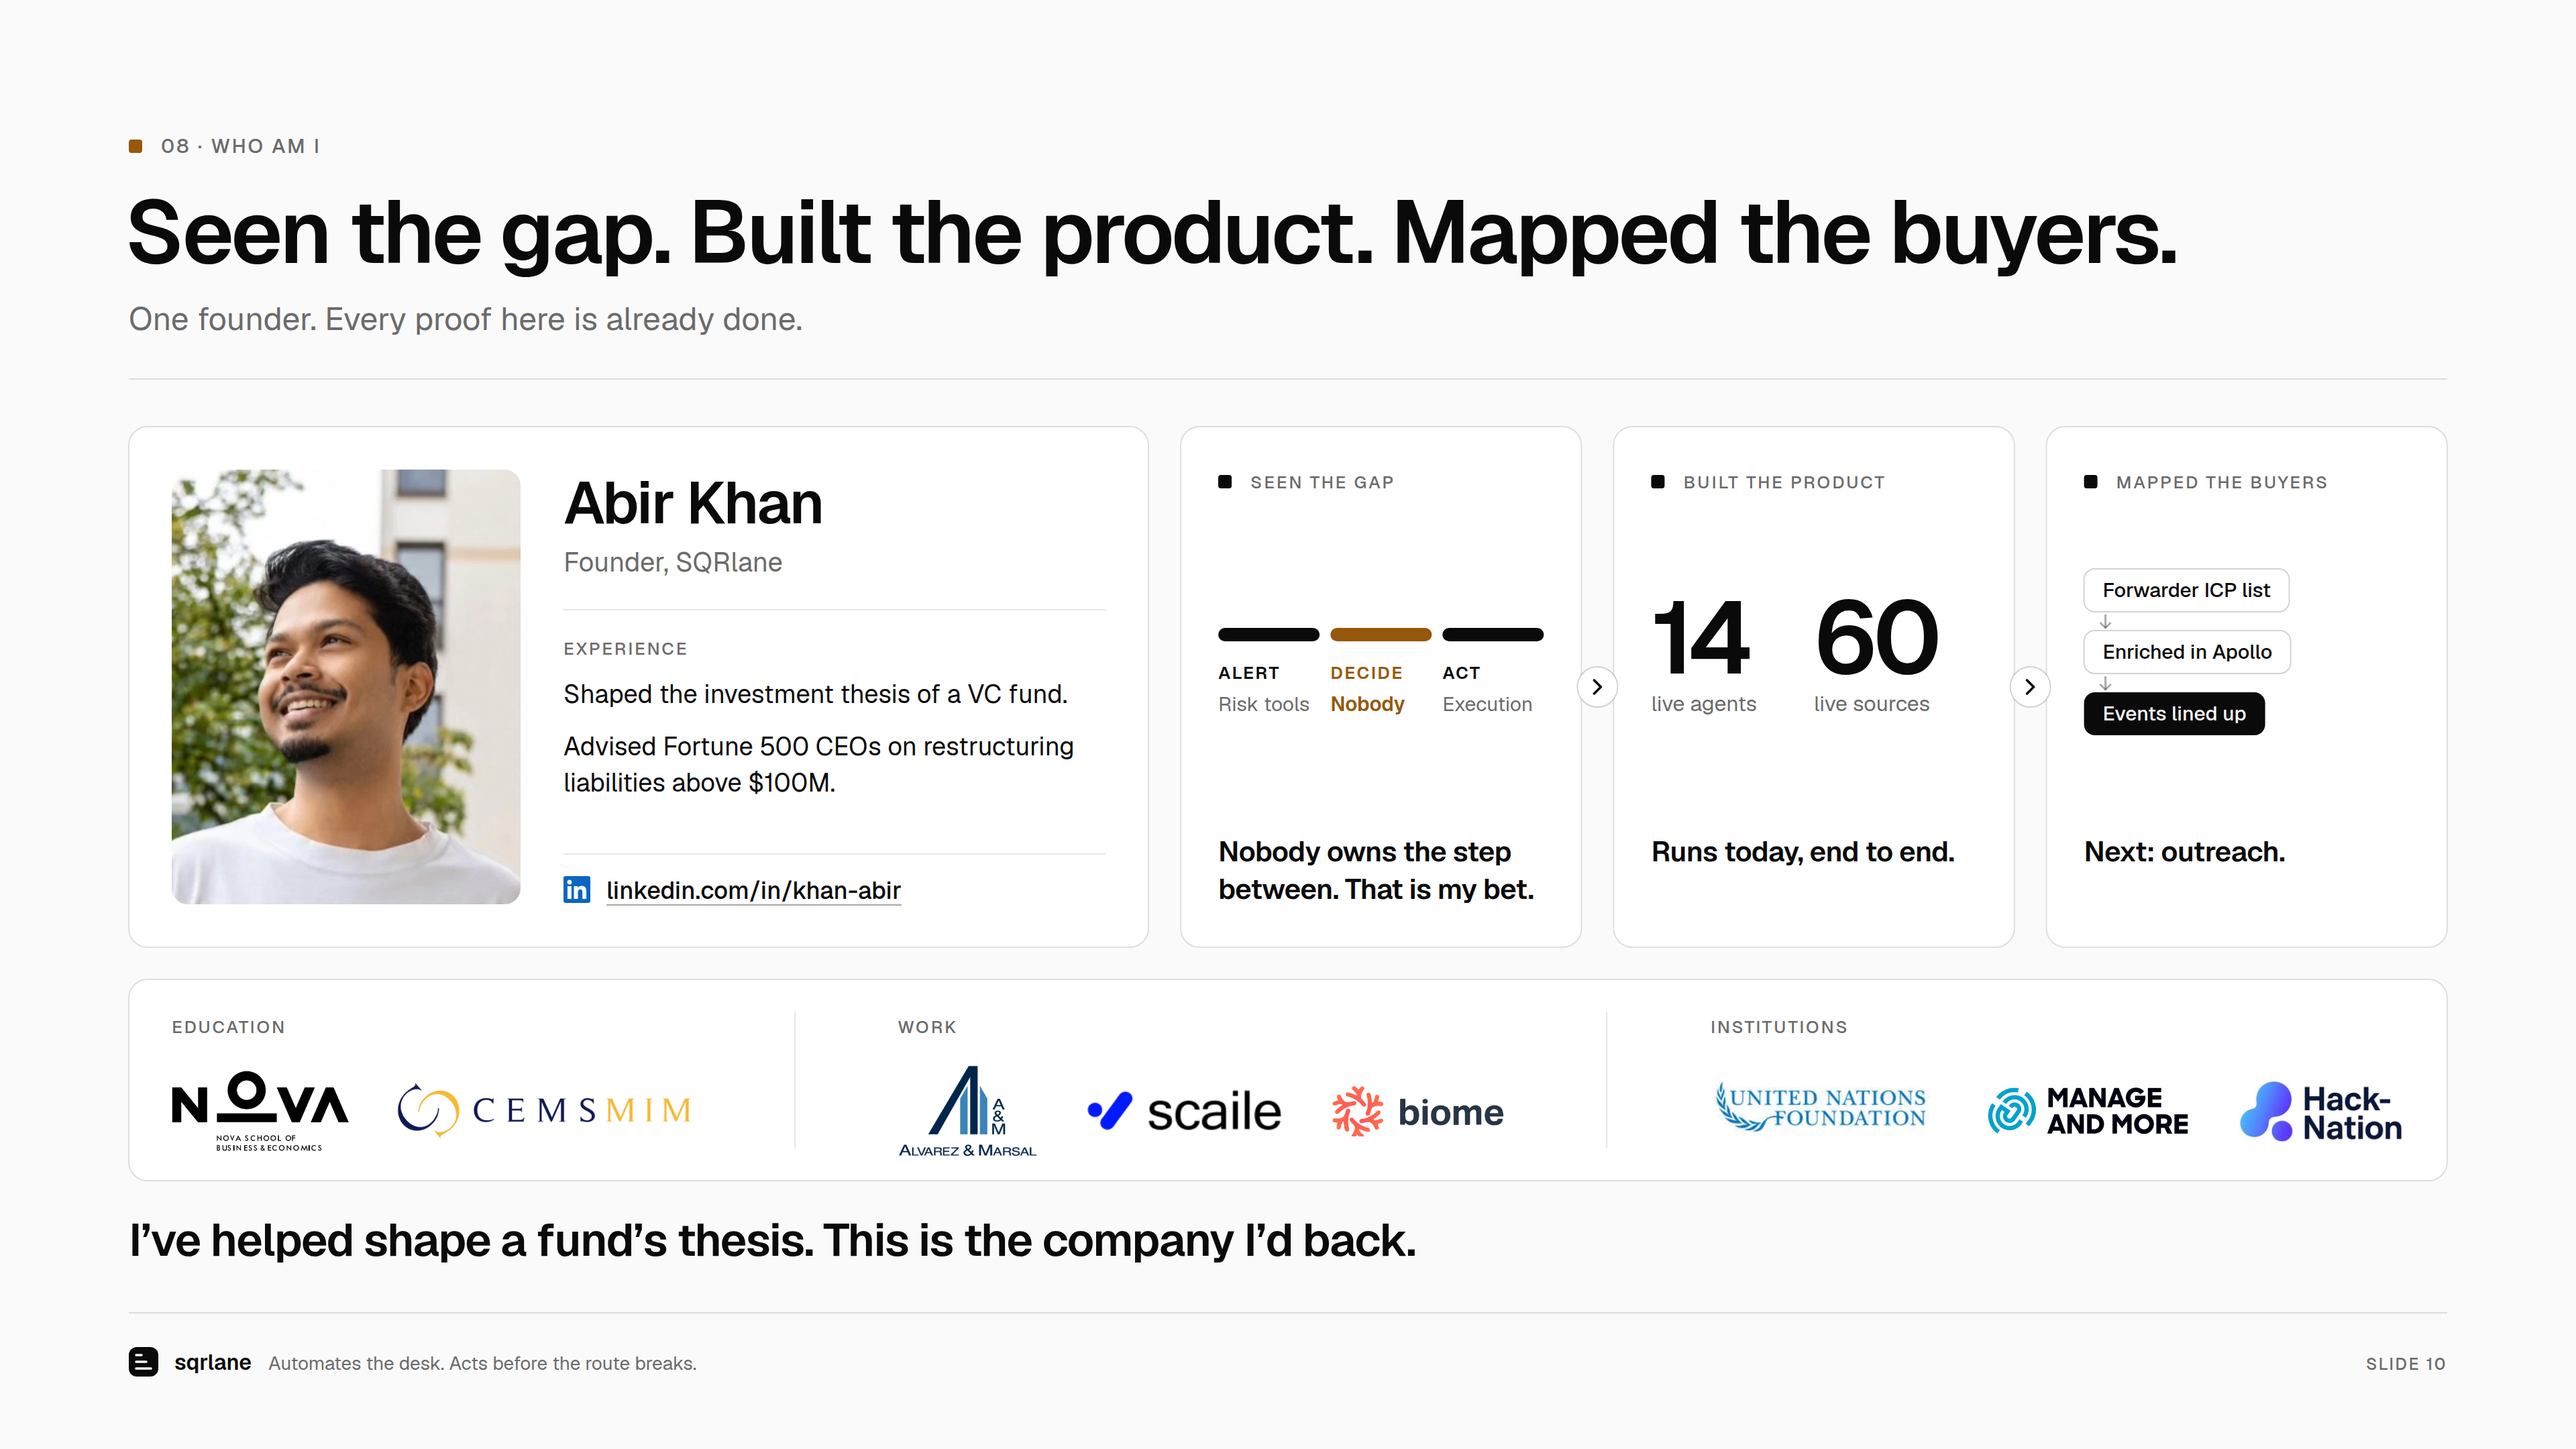
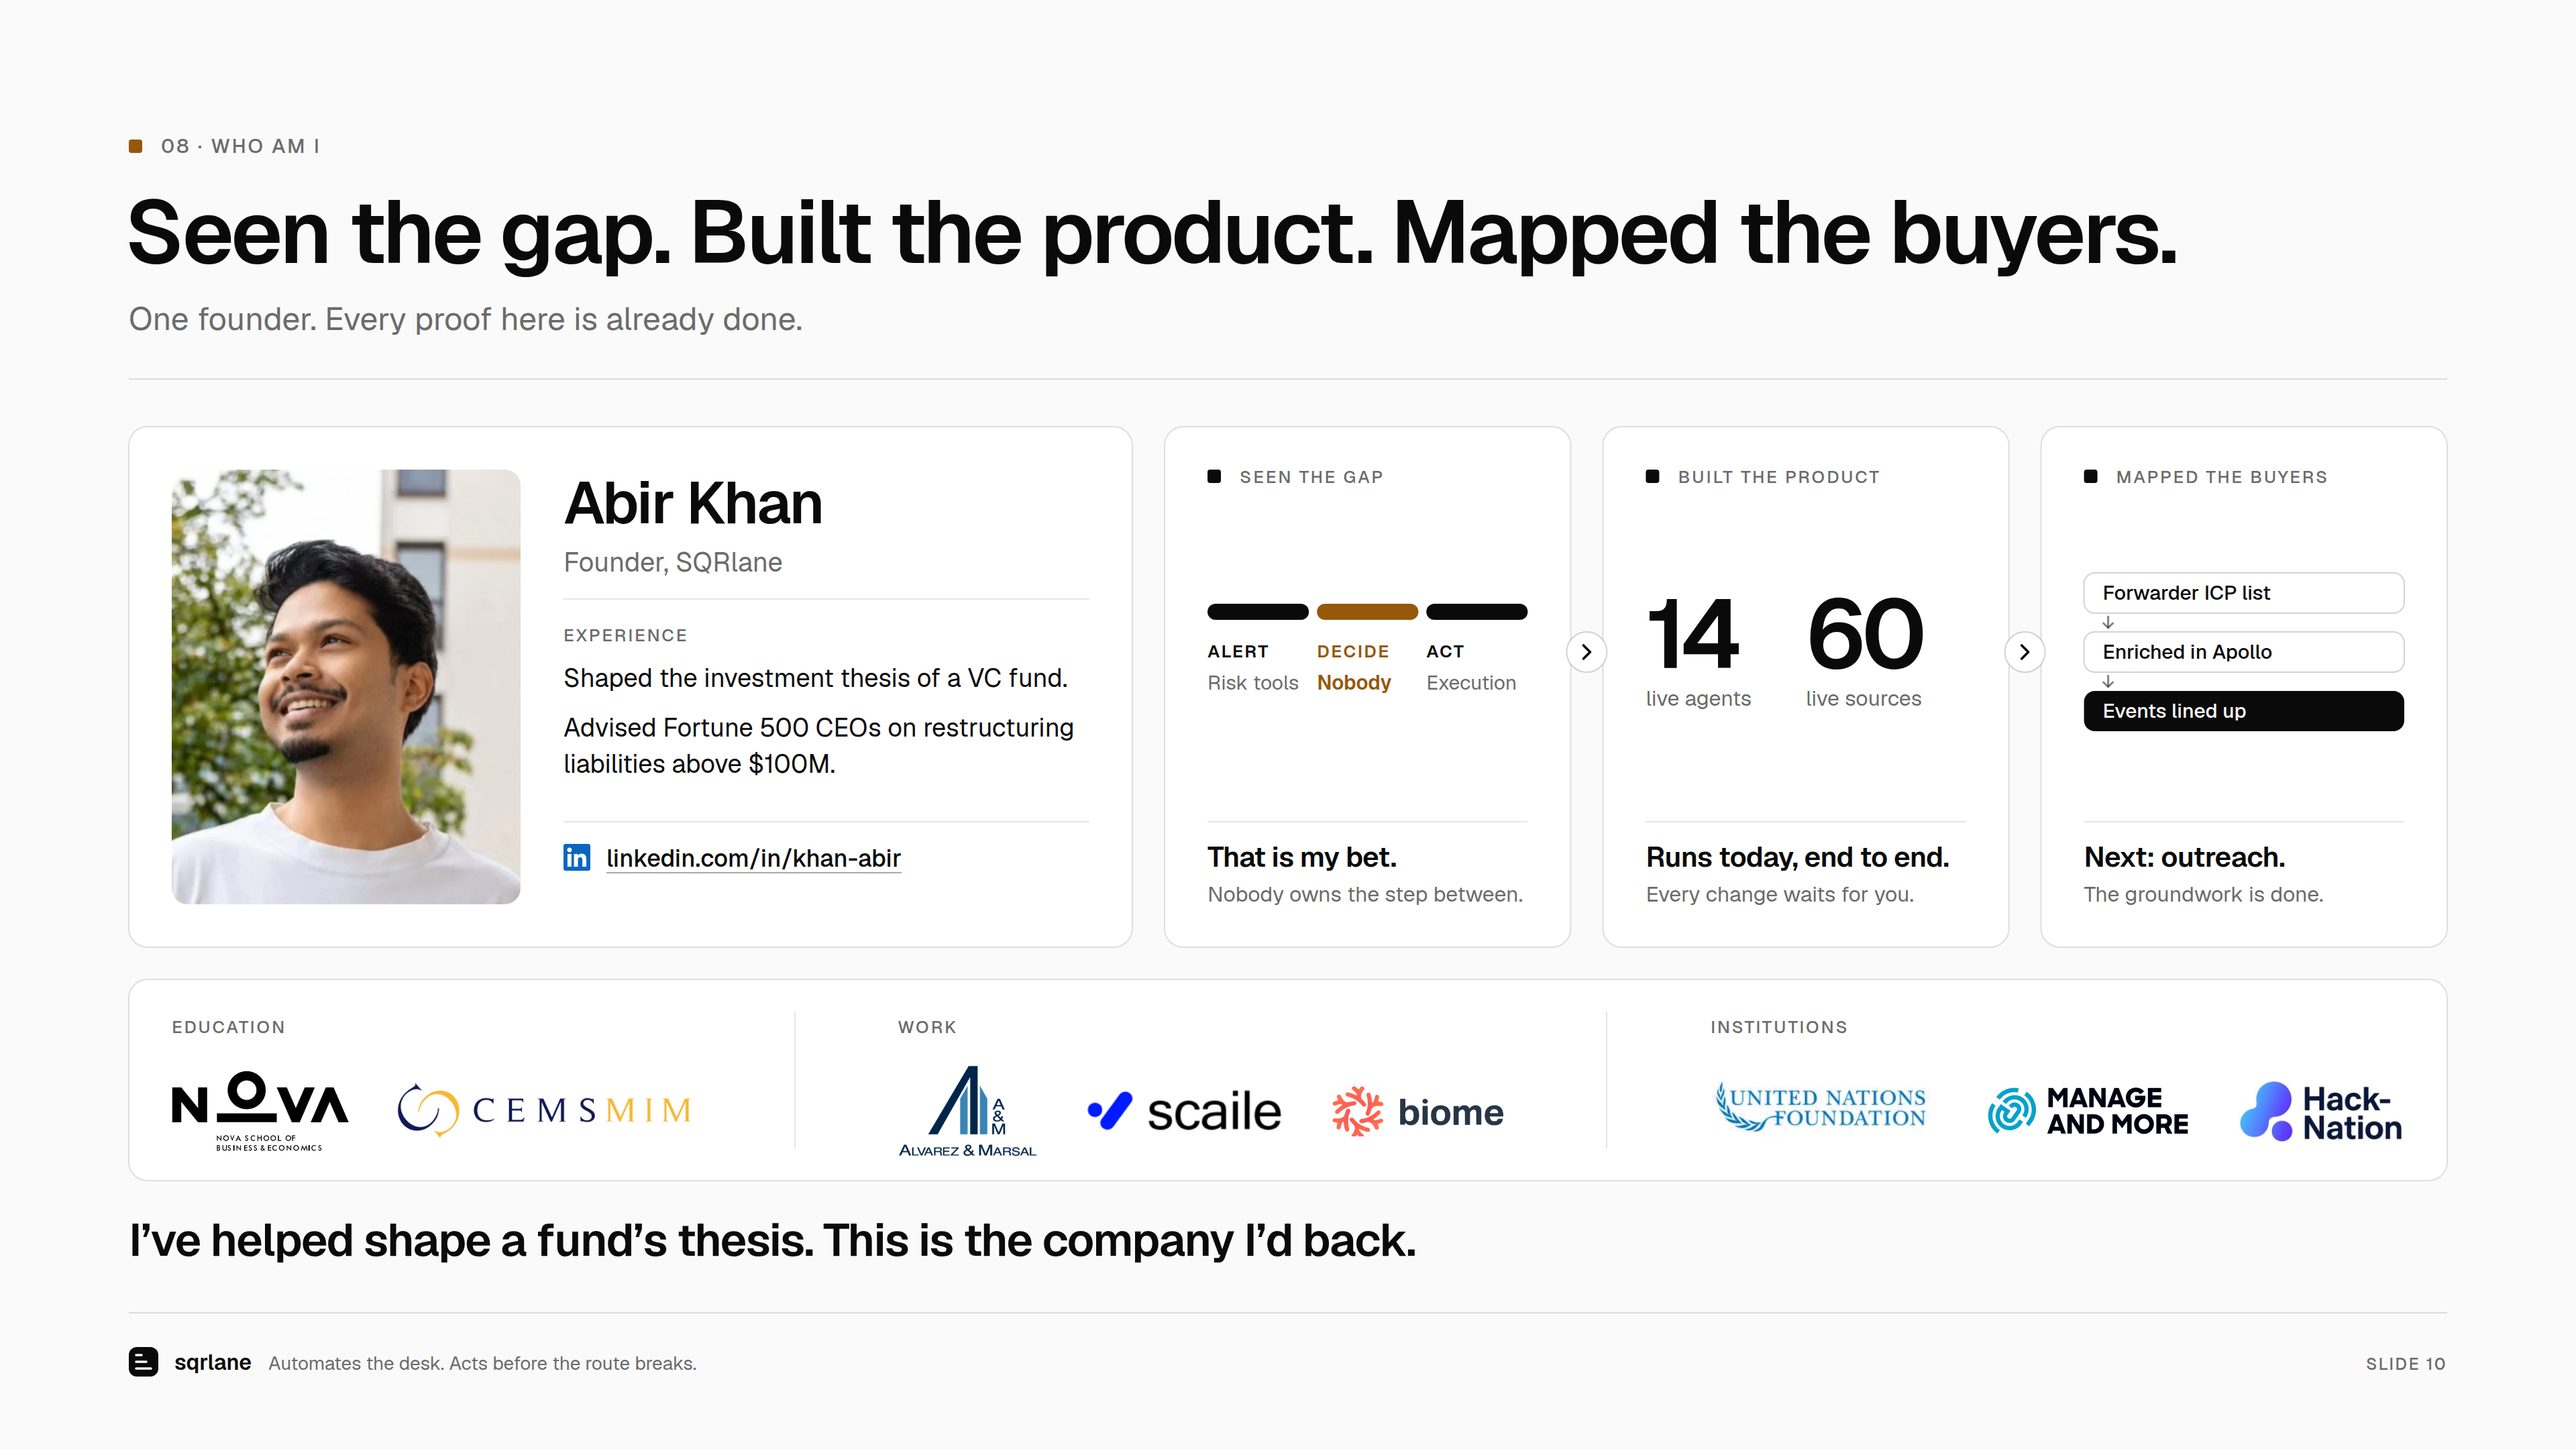
Deck v2 slide 10: the top row on one grid
On the owner's note that the alignments were not uniform: the four cards share one
padding, one label line at the photo's top, one centre line for the tiles' pictures and
the joins between them, one hairline, and two closing baselines that the LinkedIn link and
the photo's foot sit on. The tiles close on a bold line and a grey line each, so no tile
runs a line longer than the others, and the ICP chain's steps are one width.

Claude-Session: https://claude.ai/code/session_014sPbUtJpNQxuG4uUbzbaeD

diff --git a/deck/v2/build_10.py b/deck/v2/build_10.py
@@ -72,7 +72,7 @@ BAND_H = 150
 ROW_B = BOTTOM - BAND_H - 24          # foot of the top row
 
 # ---------------------------------------------------------------- the founder
-FX, FW, PAD = M, 760, 32
+FX, FW, PAD = M, 748, 32
 s.g("founder")
 s.card(FX, TOP, FW, ROW_B - TOP)
 PW_, PH_ = 260, 324                   # 4:5 portrait, the owner's photo
@@ -86,22 +86,35 @@ DX = px + PW_ + 32                    # the details column
 DW = FX + FW - PAD - DX
 s.T(DX, py + 40, "Abir Khan", 44, 600, ls=-1.2)
 s.T(DX, py + 76, "Founder, SQRlane", 20, 400, MUT)
-s.rule(py + 104, 0.1, DX, DW)
-s.T(DX, py + 138, "EXPERIENCE", 13, 500, MUT, ls=2.4, mono=True)
+s.rule(py + 96, 0.1, DX, DW)
+s.T(DX, py + 128, "EXPERIENCE", 13, 500, MUT, ls=2.4, mono=True)
 EXPERIENCE = ["Shaped the investment thesis of a VC fund.",
               "Advised Fortune 500 CEOs on restructuring liabilities above $100M."]
-y = py + 174
+y = py + 162
 for item in EXPERIENCE:
     for ln in wrap(item, 19, 400, DW):
         s.T(DX, y, ln, 19, 400)
         y += 27
-    y += 12
-EXP_END = y - 12 - 27 + 8
+    y += 10
+EXP_END = y - 10 - 27 + 8
 
-# the link sits on the column's foot, under a hairline, like a contact line
-LBASE = ROW_B - PAD - 4
-assert EXP_END + 34 <= LBASE - 30, f"experience runs into the link ({EXP_END})"
-s.rule(LBASE - 34, 0.1, DX, DW)
+# ---------------------------------------------------------------- one grid for the whole top row
+# Every card in the row shares these lines, so nothing in it floats:
+#   LABEL_BASE  tile labels; their square's top is the photo's top
+#   HC          the centre line of every tile's picture, and of the joins between tiles
+#   FOOT_RULE   one hairline at the same height in all four cards
+#   BOLD_BASE   the tiles' bold line, and the LinkedIn link
+#   LAST_BASE   the tiles' grey line, level with the photo's foot
+LABEL_BASE = TOP + PAD + 10
+LAST_BASE = py + PH_ - 2
+BOLD_BASE = LAST_BASE - 26
+FOOT_RULE = BOLD_BASE - 34
+HC = (LABEL_BASE + FOOT_RULE) // 2
+
+# the founder's link sits under the shared hairline, on the bold line's baseline
+assert EXP_END + 20 <= FOOT_RULE, f"experience runs into the hairline ({EXP_END})"
+s.rule(FOOT_RULE, 0.1, DX, DW)
+LBASE = BOLD_BASE
 s.g("linkedin")
 s.raw(f'<a href="{LINKEDIN}" target="_blank">')
 # LinkedIn's official mark, byte-for-byte from @iconify-json/logos (linkedin-icon, CC0)
@@ -120,76 +133,71 @@ TX0 = FX + FW + 24
 TGAP = 24
 TW = (W - M - TX0 - 2 * TGAP) / 3
 TH = ROW_B - TOP
-TP = 28
-HERO_Y = TOP + 110                    # top of each tile's picture
-CAP_Y = ROW_B - TP - 36               # first baseline of each tile's punchline
+TP = PAD                              # the same padding as the founder card
+CW = TW - 2 * TP                      # content width inside a tile
 
-def tile_head(x, text):
-    s.card(round(x, 1), TOP, round(TW, 1), TH)
-    fit(text, 13, 500, TW - 2 * TP - 24, ls=1.44)
-    s.label(round(x + TP, 1), TOP + TP + 18, text, INK, 13)
-
-def punch(x, text):
-    lines = wrap(text, 21, 600, TW - 2 * TP)
-    assert len(lines) <= 2, f"punchline longer than two lines: {text!r}"
-    for i, ln in enumerate(lines):
-        s.T(round(x + TP, 1), CAP_Y + i * 28, ln, 21, 600, ls=-0.3)
+def tile(x, label, bold, grey):
+    """Card, label, hairline and the two closing lines, all on the shared grid."""
+    x = round(x, 1)
+    s.card(x, TOP, round(TW, 1), TH)
+    fit(label, 13, 500, CW - 24, ls=1.44)
+    s.label(x + TP, LABEL_BASE, label, INK, 13)
+    s.rule(FOOT_RULE, 0.1, x + TP, round(CW, 1))
+    fit(bold, 21, 600, CW, ls=-0.3)
+    s.T(x + TP, BOLD_BASE, bold, 21, 600, ls=-0.3)
+    fit(grey, 16, 400, CW)
+    s.T(x + TP, LAST_BASE, grey, 16, 400, MUT)
+    return x + TP
 
 # 1 - the gap: who owns each step between an alert and an action
-x = TX0
 s.g("proof-gap")
-tile_head(x, "SEEN THE GAP")
+cx = tile(TX0, "SEEN THE GAP", "That is my bet.", "Nobody owns the step between.")
 STEPS = [("ALERT", "Risk tools", INK), ("DECIDE", "Nobody", AMB), ("ACT", "Execution", INK)]
-sw = (TW - 2 * TP - 2 * 8) / 3
+SG = 6
+sw = (CW - 2 * SG) / 3
 for i, (step, owner, col) in enumerate(STEPS):
-    sx_ = round(x + TP + i * (sw + 8), 1)
-    s.R(sx_, HERO_Y + 40, round(sw, 1), 10, col, 5)
-    fit(step, 13, 600, sw, ls=2 * 0.6)
-    fit(owner, 15, 600 if col == AMB else 400, sw - 4)
-    s.T(sx_, HERO_Y + 78, step, 13, 600, col, ls=2, mono=True)
-    s.T(sx_, HERO_Y + 102, owner, 15, 600 if col == AMB else 400, col if col == AMB else MUT)
-punch(x, "Nobody owns the step between. That is my bet.")
+    sx_ = round(cx + i * (sw + SG), 1)
+    s.R(sx_, HC - 36, round(sw, 1), 12, col, 6)
+    fit(step, 13, 600, sw, ls=1.2)
+    fit(owner, 15, 600 if col == AMB else 400, sw - 2)
+    s.T(sx_, HC + 4, step, 13, 600, col, ls=2, mono=True)
+    s.T(sx_, HC + 28, owner, 15, 600 if col == AMB else 400, col if col == AMB else MUT)
 s.end()
 
 # 2 - the product: two counts from the build, not from a market
-x = TX0 + TW + TGAP
 s.g("proof-built")
-tile_head(x, "BUILT THE PRODUCT")
+cx = tile(TX0 + TW + TGAP, "BUILT THE PRODUCT", "Runs today, end to end.", "Every change waits for you.")
 for i, (n, what) in enumerate([("14", "live agents"), ("60", "live sources")]):
-    nx = round(x + TP + i * (TW - 2 * TP) / 2, 1)
-    s.T(nx, HERO_Y + 74, n, 76, 600, ls=-3)
-    s.T(nx, HERO_Y + 102, what, 16, 400, MUT)
-punch(x, "Runs today, end to end.")
+    nx = round(cx + i * CW / 2, 1)
+    s.T(nx, HC + 12, n, 72, 600, ls=-3)
+    s.T(nx, HC + 40, what, 16, 400, MUT)
 s.end()
 
-# 3 - the buyers: the groundwork, in the order it was done
-x = TX0 + 2 * (TW + TGAP)
+# 3 - the buyers: the groundwork, in the order it was done, as equal steps
 s.g("proof-buyers")
-tile_head(x, "MAPPED THE BUYERS")
+cx = tile(TX0 + 2 * (TW + TGAP), "MAPPED THE BUYERS", "Next: outreach.", "The groundwork is done.")
 CHAIN = ["Forwarder ICP list", "Enriched in Apollo", "Events lined up"]
-cy = HERO_Y - 4
-bx = round(x + TP, 1)
+PILL, PGAP = 30, 14
+cy = HC - (len(CHAIN) * PILL + (len(CHAIN) - 1) * PGAP) // 2
+assert cy >= LABEL_BASE + 20 and cy + 3 * PILL + 2 * PGAP <= FOOT_RULE - 20, "chain leaves its zone"
 for i, step in enumerate(CHAIN):
     last = i == len(CHAIN) - 1
-    cw = round(width(step, 15, 500) + 28)
-    assert cw <= TW - 2 * TP, f"chain step too wide: {step}"
-    s.R(bx, cy, cw, 32, INK if last else CARD, 8, "" if last else f' stroke="{INK}" stroke-opacity="0.18"')
-    s.T(bx + 14, cy + 21, step, 15, 500, BG if last else INK)
-    if not last:
-        s.line(bx + 16, cy + 34, bx + 16, cy + 44, INK, 0.35, 1.5)
-        s.raw(f'<path d="M{bx + 12} {cy + 40} l4 4 l4 -4" stroke="{INK}" stroke-opacity="0.35" stroke-width="1.5" fill="none"/>')
-    cy += 46
-assert cy - 14 <= CAP_Y - 30, "chain runs into the punchline"
-punch(x, "Next: outreach.")
+    fit(step, 15, 500, CW - 28)
+    s.R(cx, cy, round(CW, 1), PILL, INK if last else CARD, 8, "" if last else f' stroke="{INK}" stroke-opacity="0.18"')
+    s.T(cx + 14, cy + 20, step, 15, 500, BG if last else INK)
+    if not last:                       # an arrow down the gap, under the text's first letter
+        ax = cx + 18
+        s.line(ax, cy + PILL + 2, ax, cy + PILL + PGAP - 3, INK, 0.5, 1.5)
+        s.raw(f'<path d="M{ax - 3.5} {cy + PILL + PGAP - 6.5} l3.5 3.5 l3.5 -3.5" stroke="{INK}" stroke-opacity="0.5" stroke-width="1.5" fill="none" stroke-linecap="round" stroke-linejoin="round"/>')
+    cy += PILL + PGAP
 s.end()
 
-# the joins between tiles: seen, then built, then mapped
+# the joins between tiles sit on the pictures' centre line
 s.g("proof-joins")
 for i in (1, 2):
     gx = TX0 + i * TW + (i - 0.5) * TGAP
-    gy = TOP + TH / 2
-    s.raw(f'<circle cx="{gx:.1f}" cy="{gy}" r="15" fill="{CARD}" stroke="{INK}" stroke-opacity="0.18"/>')
-    s.raw(f'<path d="M{gx - 2.5:.1f} {gy - 5} l5 5 l-5 5" stroke="{INK}" stroke-width="1.8" fill="none" stroke-linecap="round" stroke-linejoin="round"/>')
+    s.raw(f'<circle cx="{gx:.1f}" cy="{HC}" r="15" fill="{CARD}" stroke="{INK}" stroke-opacity="0.18"/>')
+    s.raw(f'<path d="M{gx - 2.5:.1f} {HC - 5} l5 5 l-5 5" stroke="{INK}" stroke-width="1.8" fill="none" stroke-linecap="round" stroke-linejoin="round"/>')
 s.end()
 
 # ---------------------------------------------------------------- the logos, one horizontal band

diff --git a/deck/v2/HANDOFF.md b/deck/v2/HANDOFF.md
@@ -191,12 +191,19 @@ planned, D the team this round builds); the owner picked **A**, then gave notes 
   https://www.linkedin.com/in/khan-abir/ (Figma may drop the link on import; re-add it on
   the text). No QR code.
 - **Top right, three linked tiles** (the owner found tick rows boring), joined by chevron
-  circles, each a label, a picture and one bold line:
+  circles, each a label, a picture, a hairline, one bold line and one grey line:
   Seen the gap - a three-step bar, ALERT (risk tools) / DECIDE (nobody, amber) / ACT
-  (execution), "Nobody owns the step between. That is my bet."; Built the product - "14 live
-  agents", "60 live sources" as large numerals, "Runs today, end to end." (14 live, so no
-  tag is needed); Mapped the buyers - a chain, Forwarder ICP list → Enriched in Apollo →
-  Events lined up, "Next: outreach." The Apollo list is confirmed as SQRlane's own work.
+  (execution), "That is my bet." / "Nobody owns the step between."; Built the product -
+  "14 live agents", "60 live sources" as large numerals, "Runs today, end to end." / "Every
+  change waits for you."; Mapped the buyers - three equal steps, Forwarder ICP list →
+  Enriched in Apollo → Events lined up, "Next: outreach." / "The groundwork is done." The
+  Apollo list is confirmed as SQRlane's own work.
+- **One grid for the top row** (owner: "make sure alignments are uniform"): all four cards
+  use 32 px padding; the tile labels' squares start at the photo's top; every picture is
+  centred on one line (`HC`) and the joins sit on it; one hairline (`FOOT_RULE`) runs at
+  the same height through all four cards; the bold lines and the LinkedIn link share a
+  baseline (`BOLD_BASE`); the grey lines sit level with the photo's foot (`LAST_BASE`).
+  Change a line in one place and every card follows.
 - **Logo band, one horizontal row** (owner: "instead of vertical, keep it horizontal"):
   Education (Nova SBE, CEMS MIM), Work (Alvarez &amp; Marsal, SCAILE, Biome VC),
   Institutions (UN Foundation, Manage and More, Hack-Nation). Logos sit at their natural
